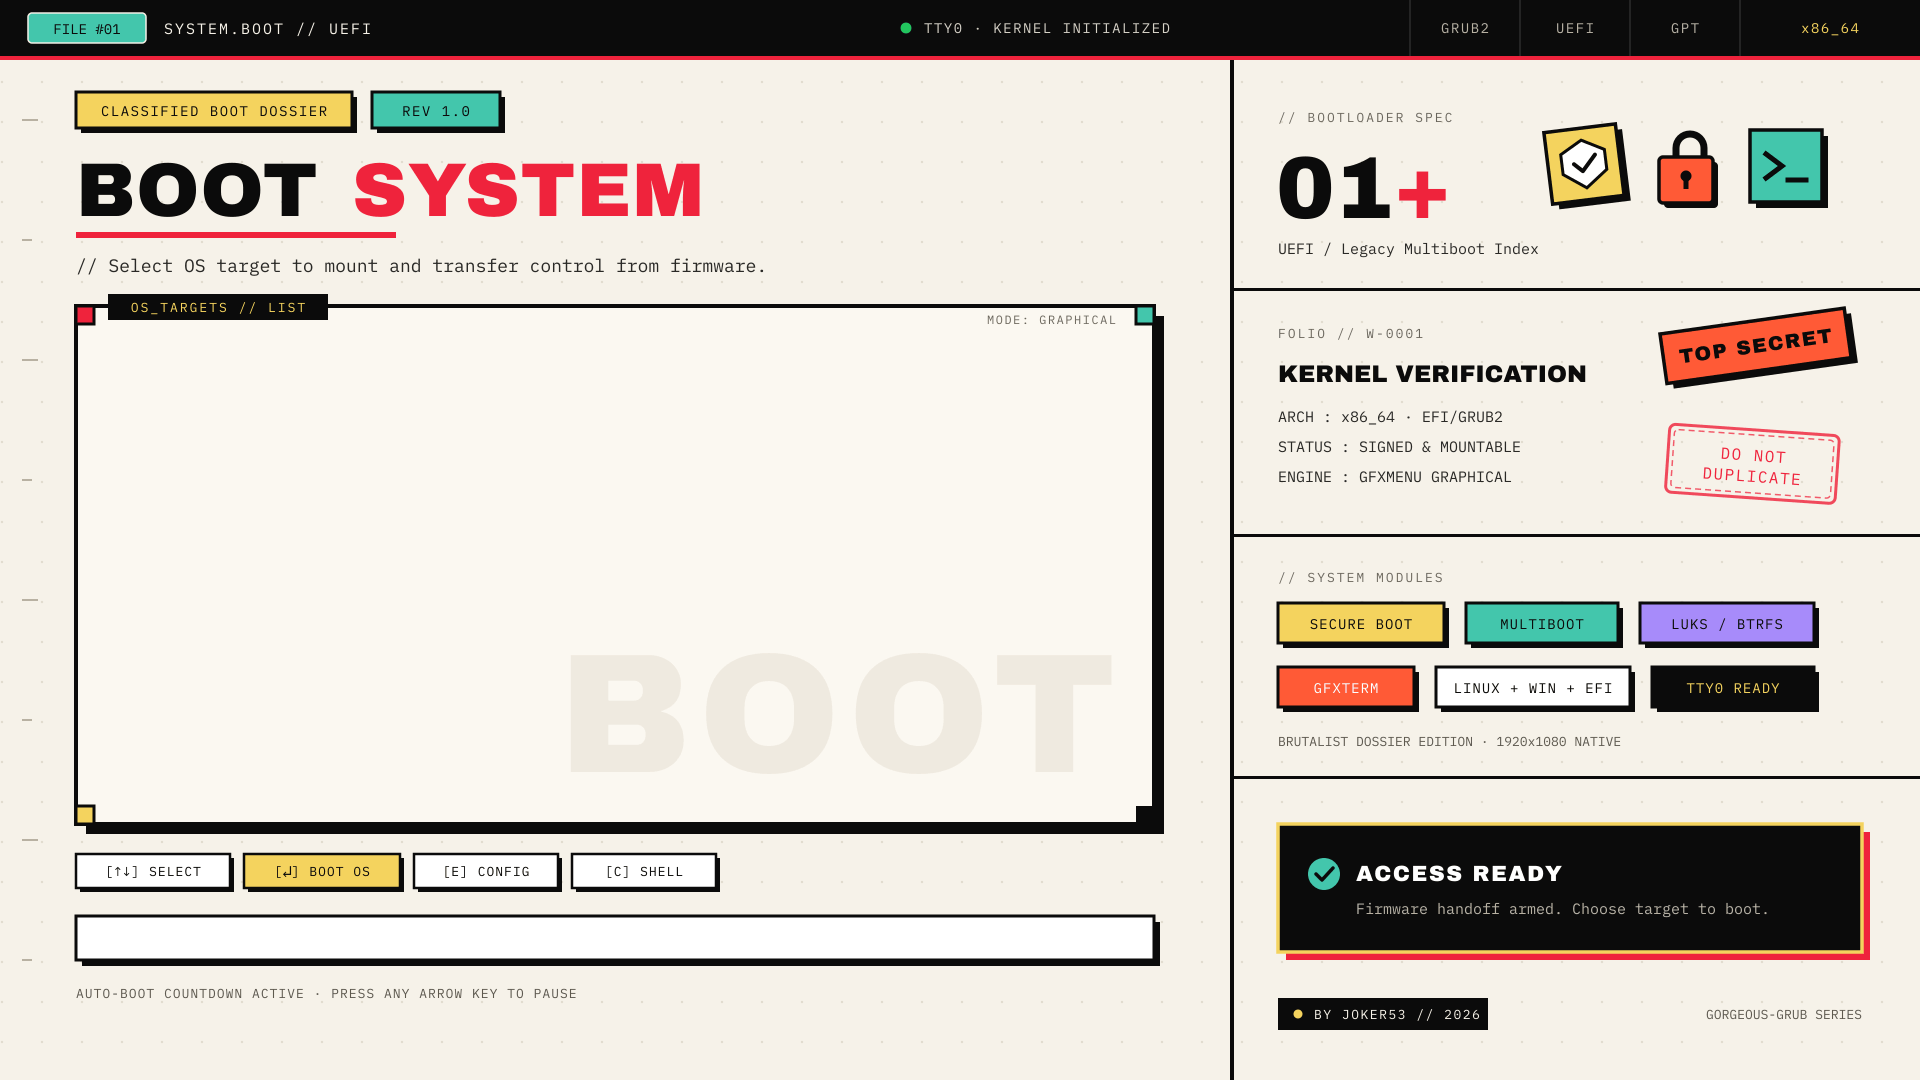
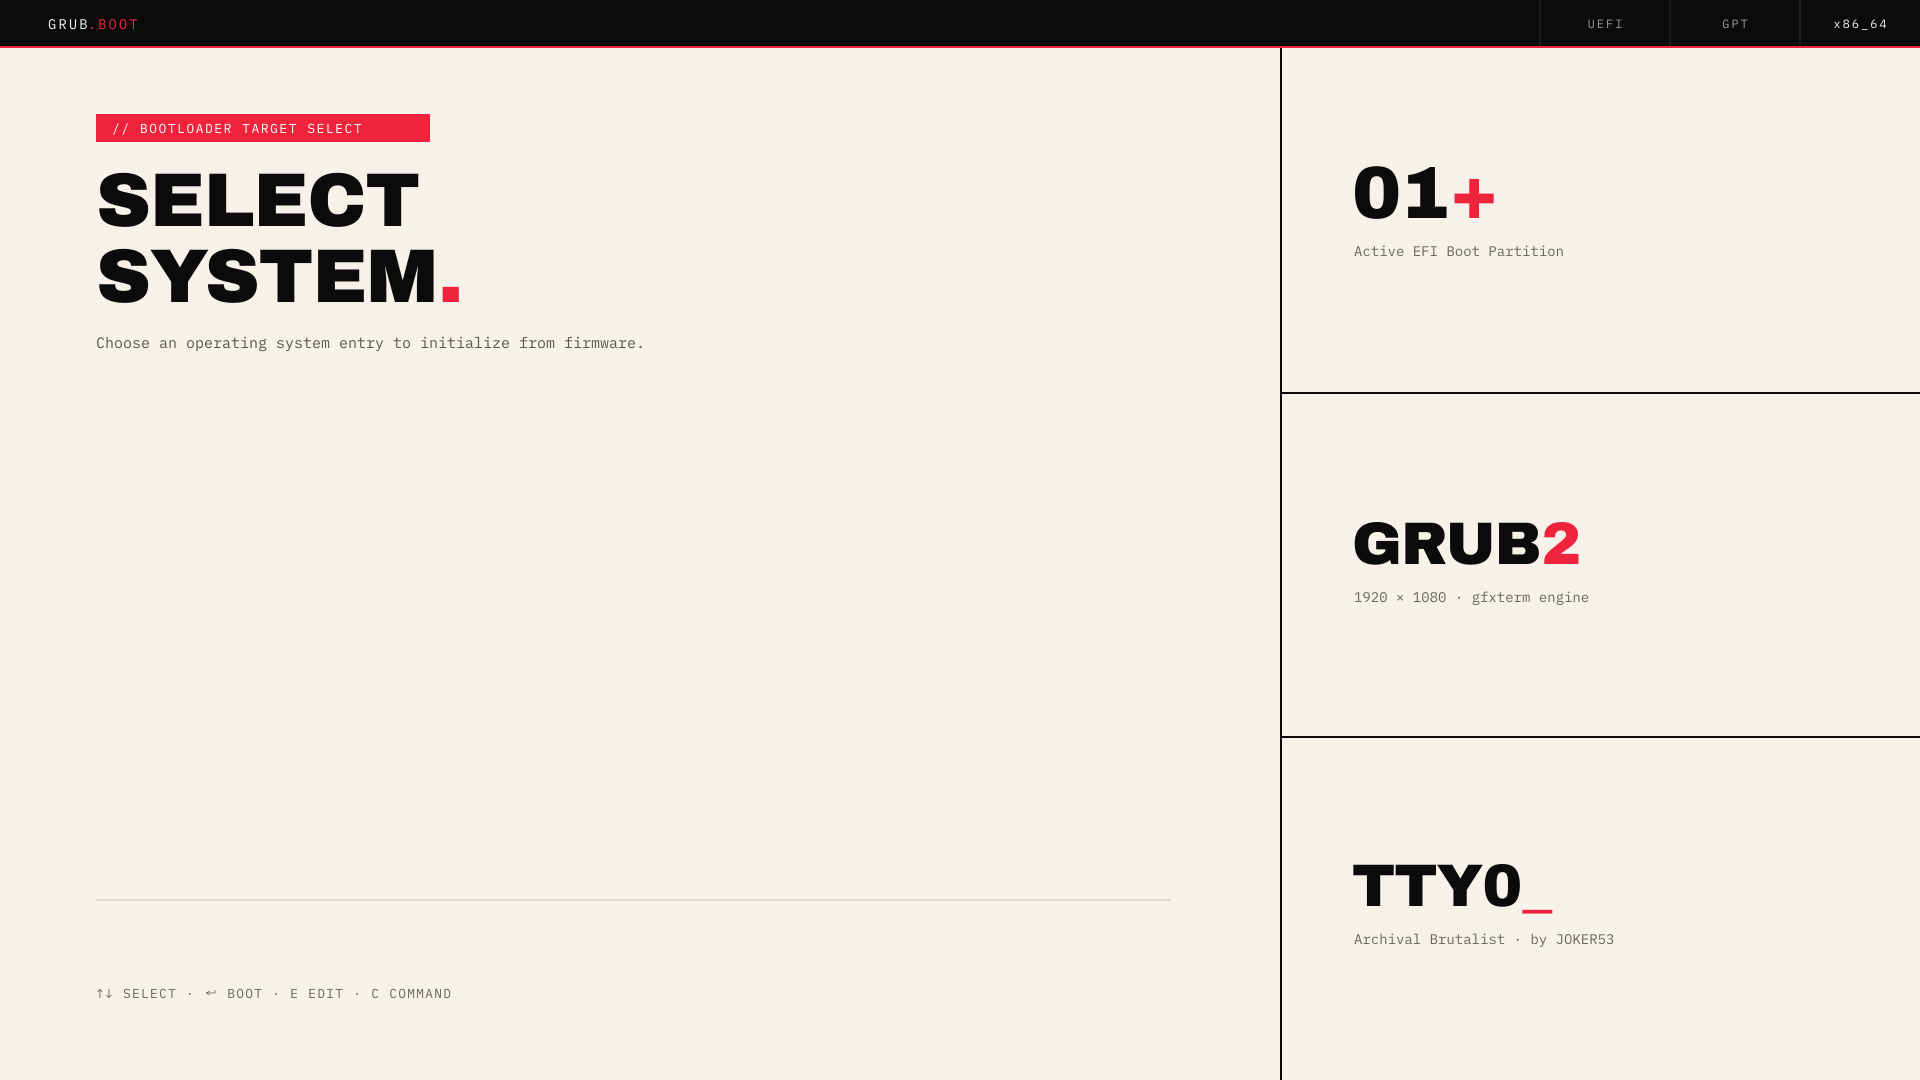
Redesign brutalist theme into clean Swiss-Brutalist canvas

diff --git a/catalog.generated.js b/catalog.generated.js
@@ -717,6 +717,6 @@ window.GRUB_THEME_CATALOG = [
       "selected": 0
     },
     "status": "working",
-    "themeText": "title-text: \"\"\ndesktop-image: \"background.png\"\ndesktop-image-scale-method: \"stretch\"\ndesktop-color: \"#F6F2E9\"\n\n+ boot_menu {\n  left = 5%\n  top = 31%\n  width = 54%\n  height = 44%\n  item_font = \"Space Grotesk Regular 20\"\n  item_color = \"#0A0A0A\"\n  selected_item_color = \"#FFFFFF\"\n  item_height = 64\n  item_padding = 24\n  item_spacing = 10\n  menu_pixmap_style = \"box/frame_*.png\"\n  item_pixmap_style = \"box/item_*.png\"\n  selected_item_pixmap_style = \"box/sel_*.png\"\n  scrollbar = false\n}\n\n+ progress_bar {\n  id = \"__timeout__\"\n  left = 5%\n  top = 86%\n  width = 54%\n  height = 20\n  fg_color = \"#EF233C\"\n  bg_color = \"#FFFFFF\"\n  border_color = \"#0A0A0A\"\n  text_color = \"#0A0A0A\"\n  text = \"@TIMEOUT_NOTIFICATION_SHORT@\"\n  font = \"IBM Plex Mono Regular 18\"\n}\n"
+    "themeText": "title-text: \"\"\ndesktop-image: \"background.png\"\ndesktop-image-scale-method: \"stretch\"\ndesktop-color: \"#F6F2E9\"\n\n+ boot_menu {\n  left = 5%\n  top = 37%\n  width = 56%\n  height = 44%\n  item_font = \"Space Grotesk Regular 20\"\n  item_color = \"#0A0A0A\"\n  selected_item_color = \"#FFFFFF\"\n  item_height = 68\n  item_padding = 24\n  item_spacing = 12\n  menu_pixmap_style = \"box/frame_*.png\"\n  item_pixmap_style = \"box/item_*.png\"\n  selected_item_pixmap_style = \"box/sel_*.png\"\n  scrollbar = false\n}\n\n+ progress_bar {\n  id = \"__timeout__\"\n  left = 5%\n  top = 87%\n  width = 56%\n  height = 8\n  fg_color = \"#EF233C\"\n  bg_color = \"#E4DDD0\"\n  border_color = \"#0A0A0A\"\n  text_color = \"#0A0A0A\"\n  text = \"\"\n  font = \"IBM Plex Mono Regular 18\"\n}\n"
   }
 ];
